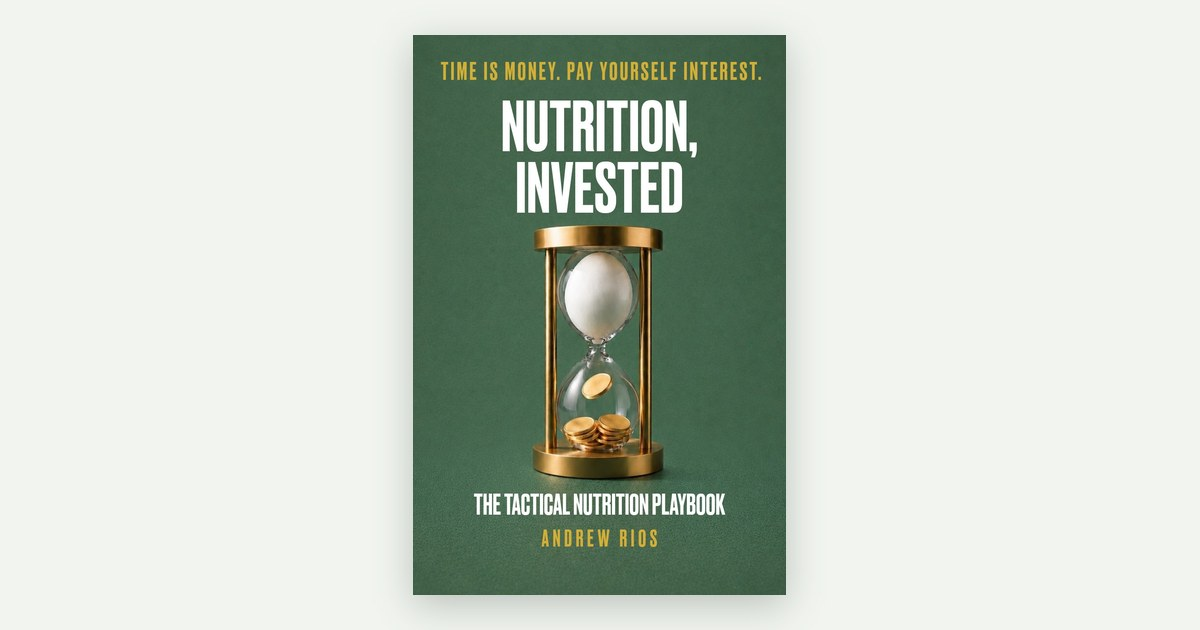
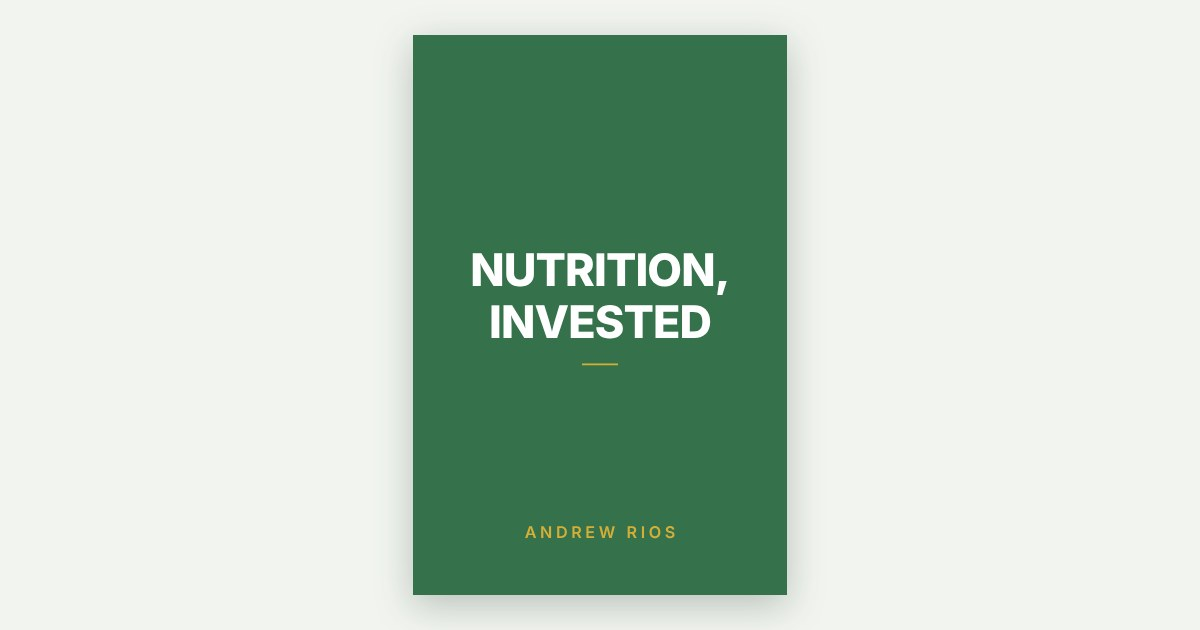
Take the book cover off the site
A title card in the same 832x1248 shape stands in on the buy page, so
the layout doesn't move. share.jpg is rebuilt from it, and the
structured data no longer names a cover image. The cover itself is
kept on the cover-hold branch.

Claude-Session: https://claude.ai/code/session_015tYPBmZf7uavNsthwE4J54

Changed region(s): [[0.37, 0.0905, 0.6475, 0.9048], [0.6475, 0.0603, 0.6783, 0.0905]]

diff --git a/index.html b/index.html
@@ -19,7 +19,7 @@
   <meta property="og:image" content="https://nutritioninvested.com/share.jpg">
   <meta property="og:image:width" content="1200">
   <meta property="og:image:height" content="630">
-  <meta property="og:image:alt" content="Nutrition, Invested book cover">
+  <meta property="og:image:alt" content="Nutrition, Invested by Andrew Rios">
   <meta name="twitter:card" content="summary_large_image">
 
   <script type="application/ld+json">
@@ -36,7 +36,6 @@
         "name": "Nutrition, Invested",
         "description": "A survival guide to food. Five anchors. One plate. Ninety days.",
         "url": "https://nutritioninvested.com/",
-        "image": "https://nutritioninvested.com/cover.jpg",
         "bookFormat": "https://schema.org/EBook",
         "inLanguage": "en",
         "author": {
@@ -648,7 +647,7 @@
 
       <div class="cover-wrapper">
         <a href="https://read.amazon.com/kp/kshare?asin=B0F1RX4JWV&id=m63qwfvltfhkvpcw4t4djigtte&reshareId=NTSJ2YDH4KJ5RT2F1EXV&reshareChannel=system" target="_blank" rel="noopener">
-          <img src="./cover.jpg" alt="Nutrition, Invested book cover" width="832" height="1248" fetchpriority="high" decoding="async">
+          <img src="./cover-placeholder.svg" alt="Nutrition, Invested by Andrew Rios" width="832" height="1248" fetchpriority="high" decoding="async">
         </a>
       </div>
 
